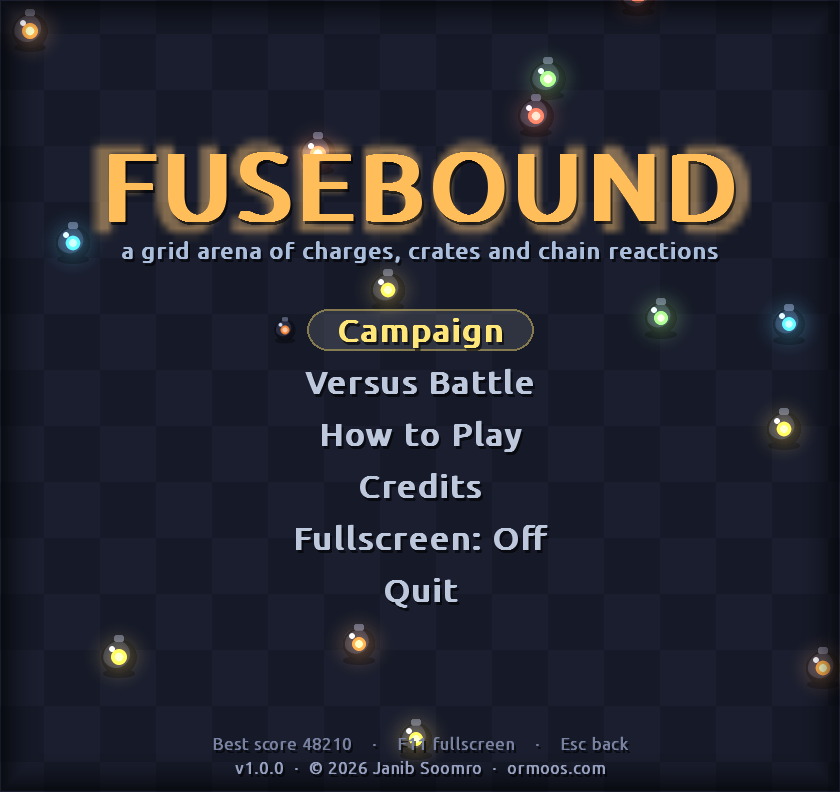
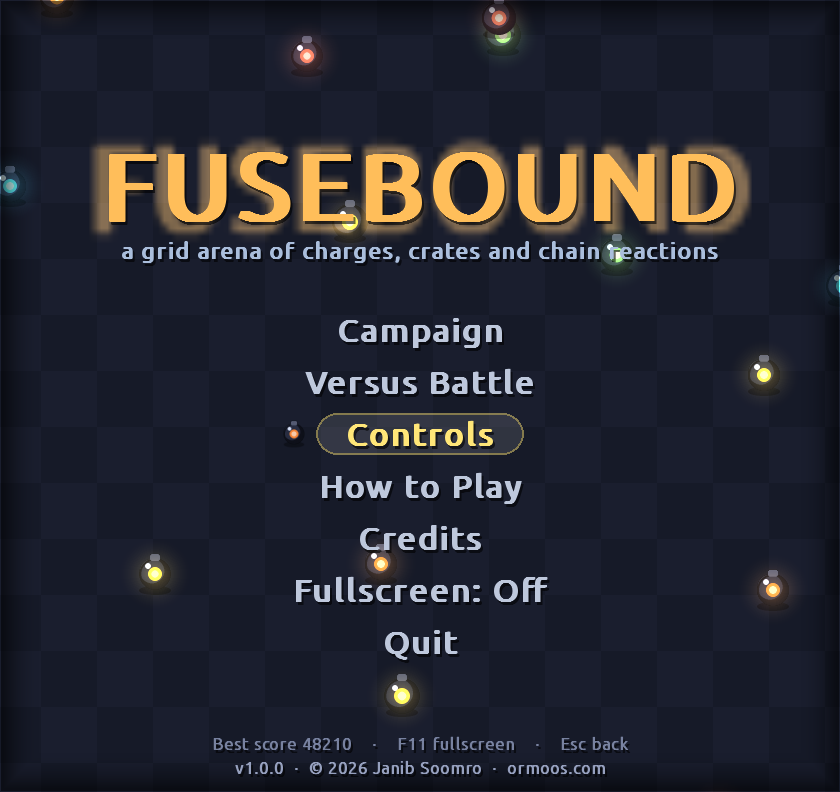
New features added

diff --git a/README.md b/README.md
@@ -80,6 +80,10 @@ progress, and **Reset to Defaults** restores the table above.
 In the campaign, any keyboard layout controls your fighter.
 `Esc` pauses · `F11` toggles fullscreen.
 
+<p align="center">
+  <img src="docs/screenshots/controls.png" width="48%" alt="Controls screen for rebinding keys">
+</p>
+
 ## Power-ups
 
 | Icon | Name | Effect |
